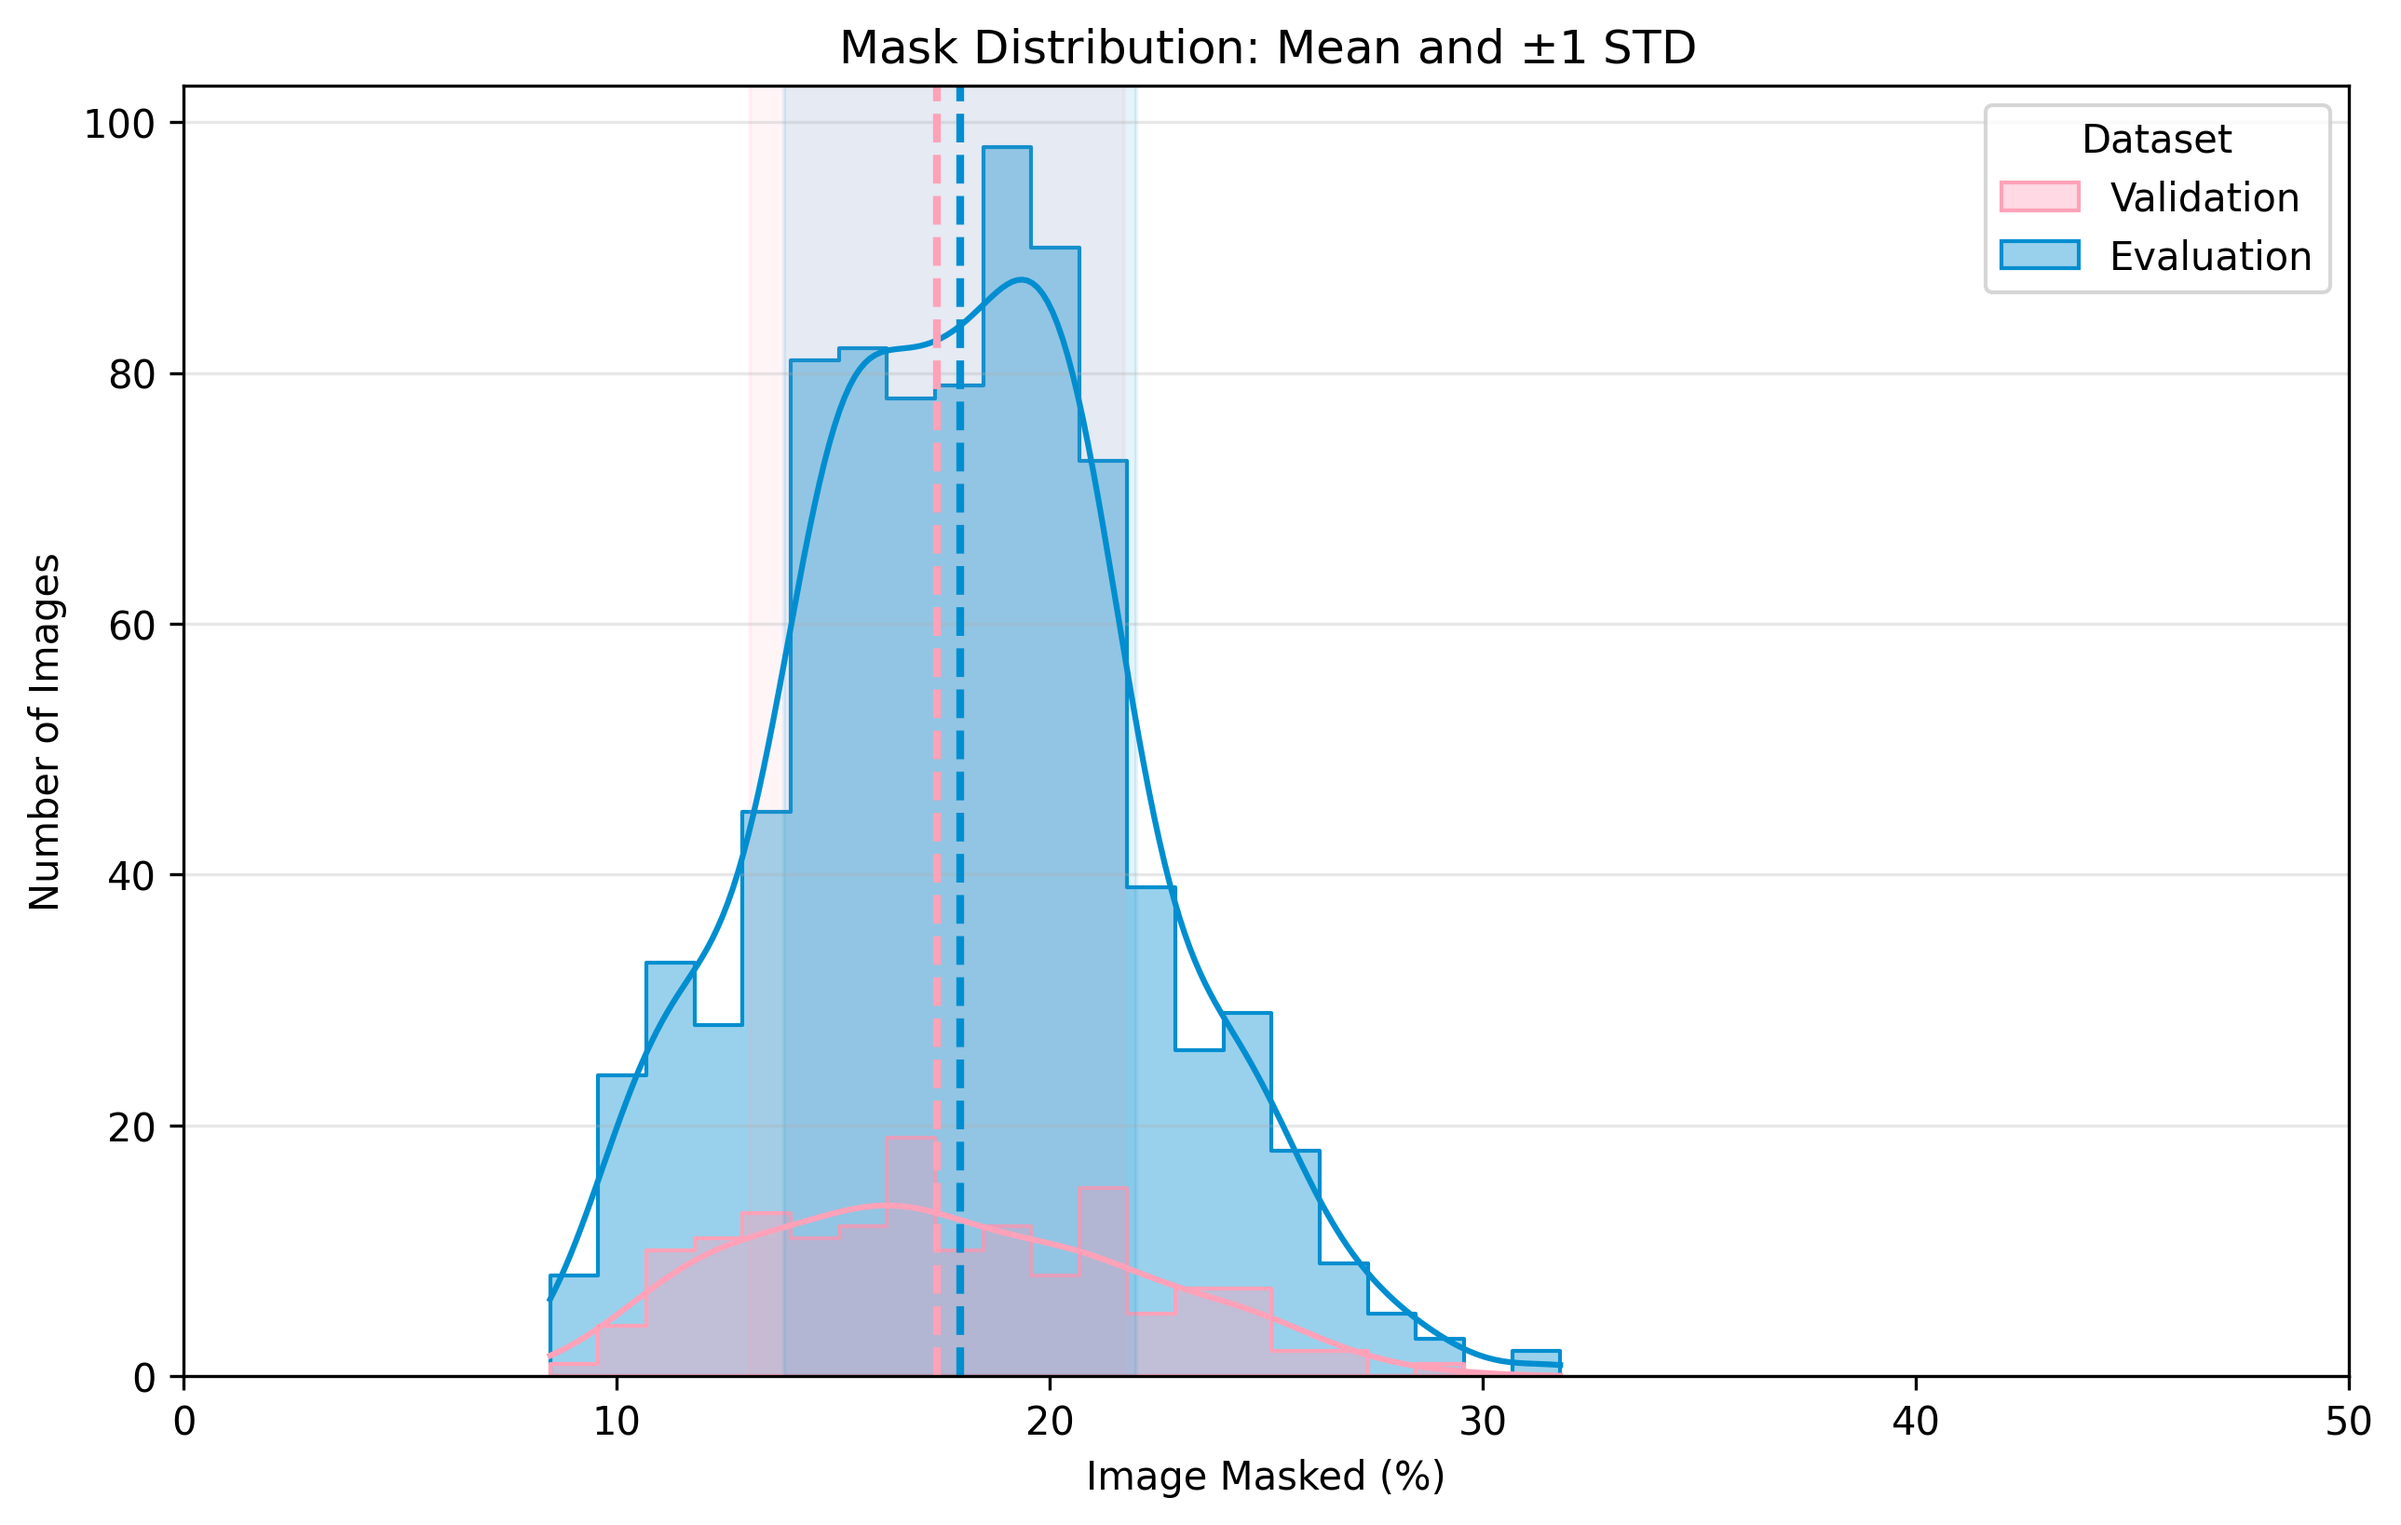
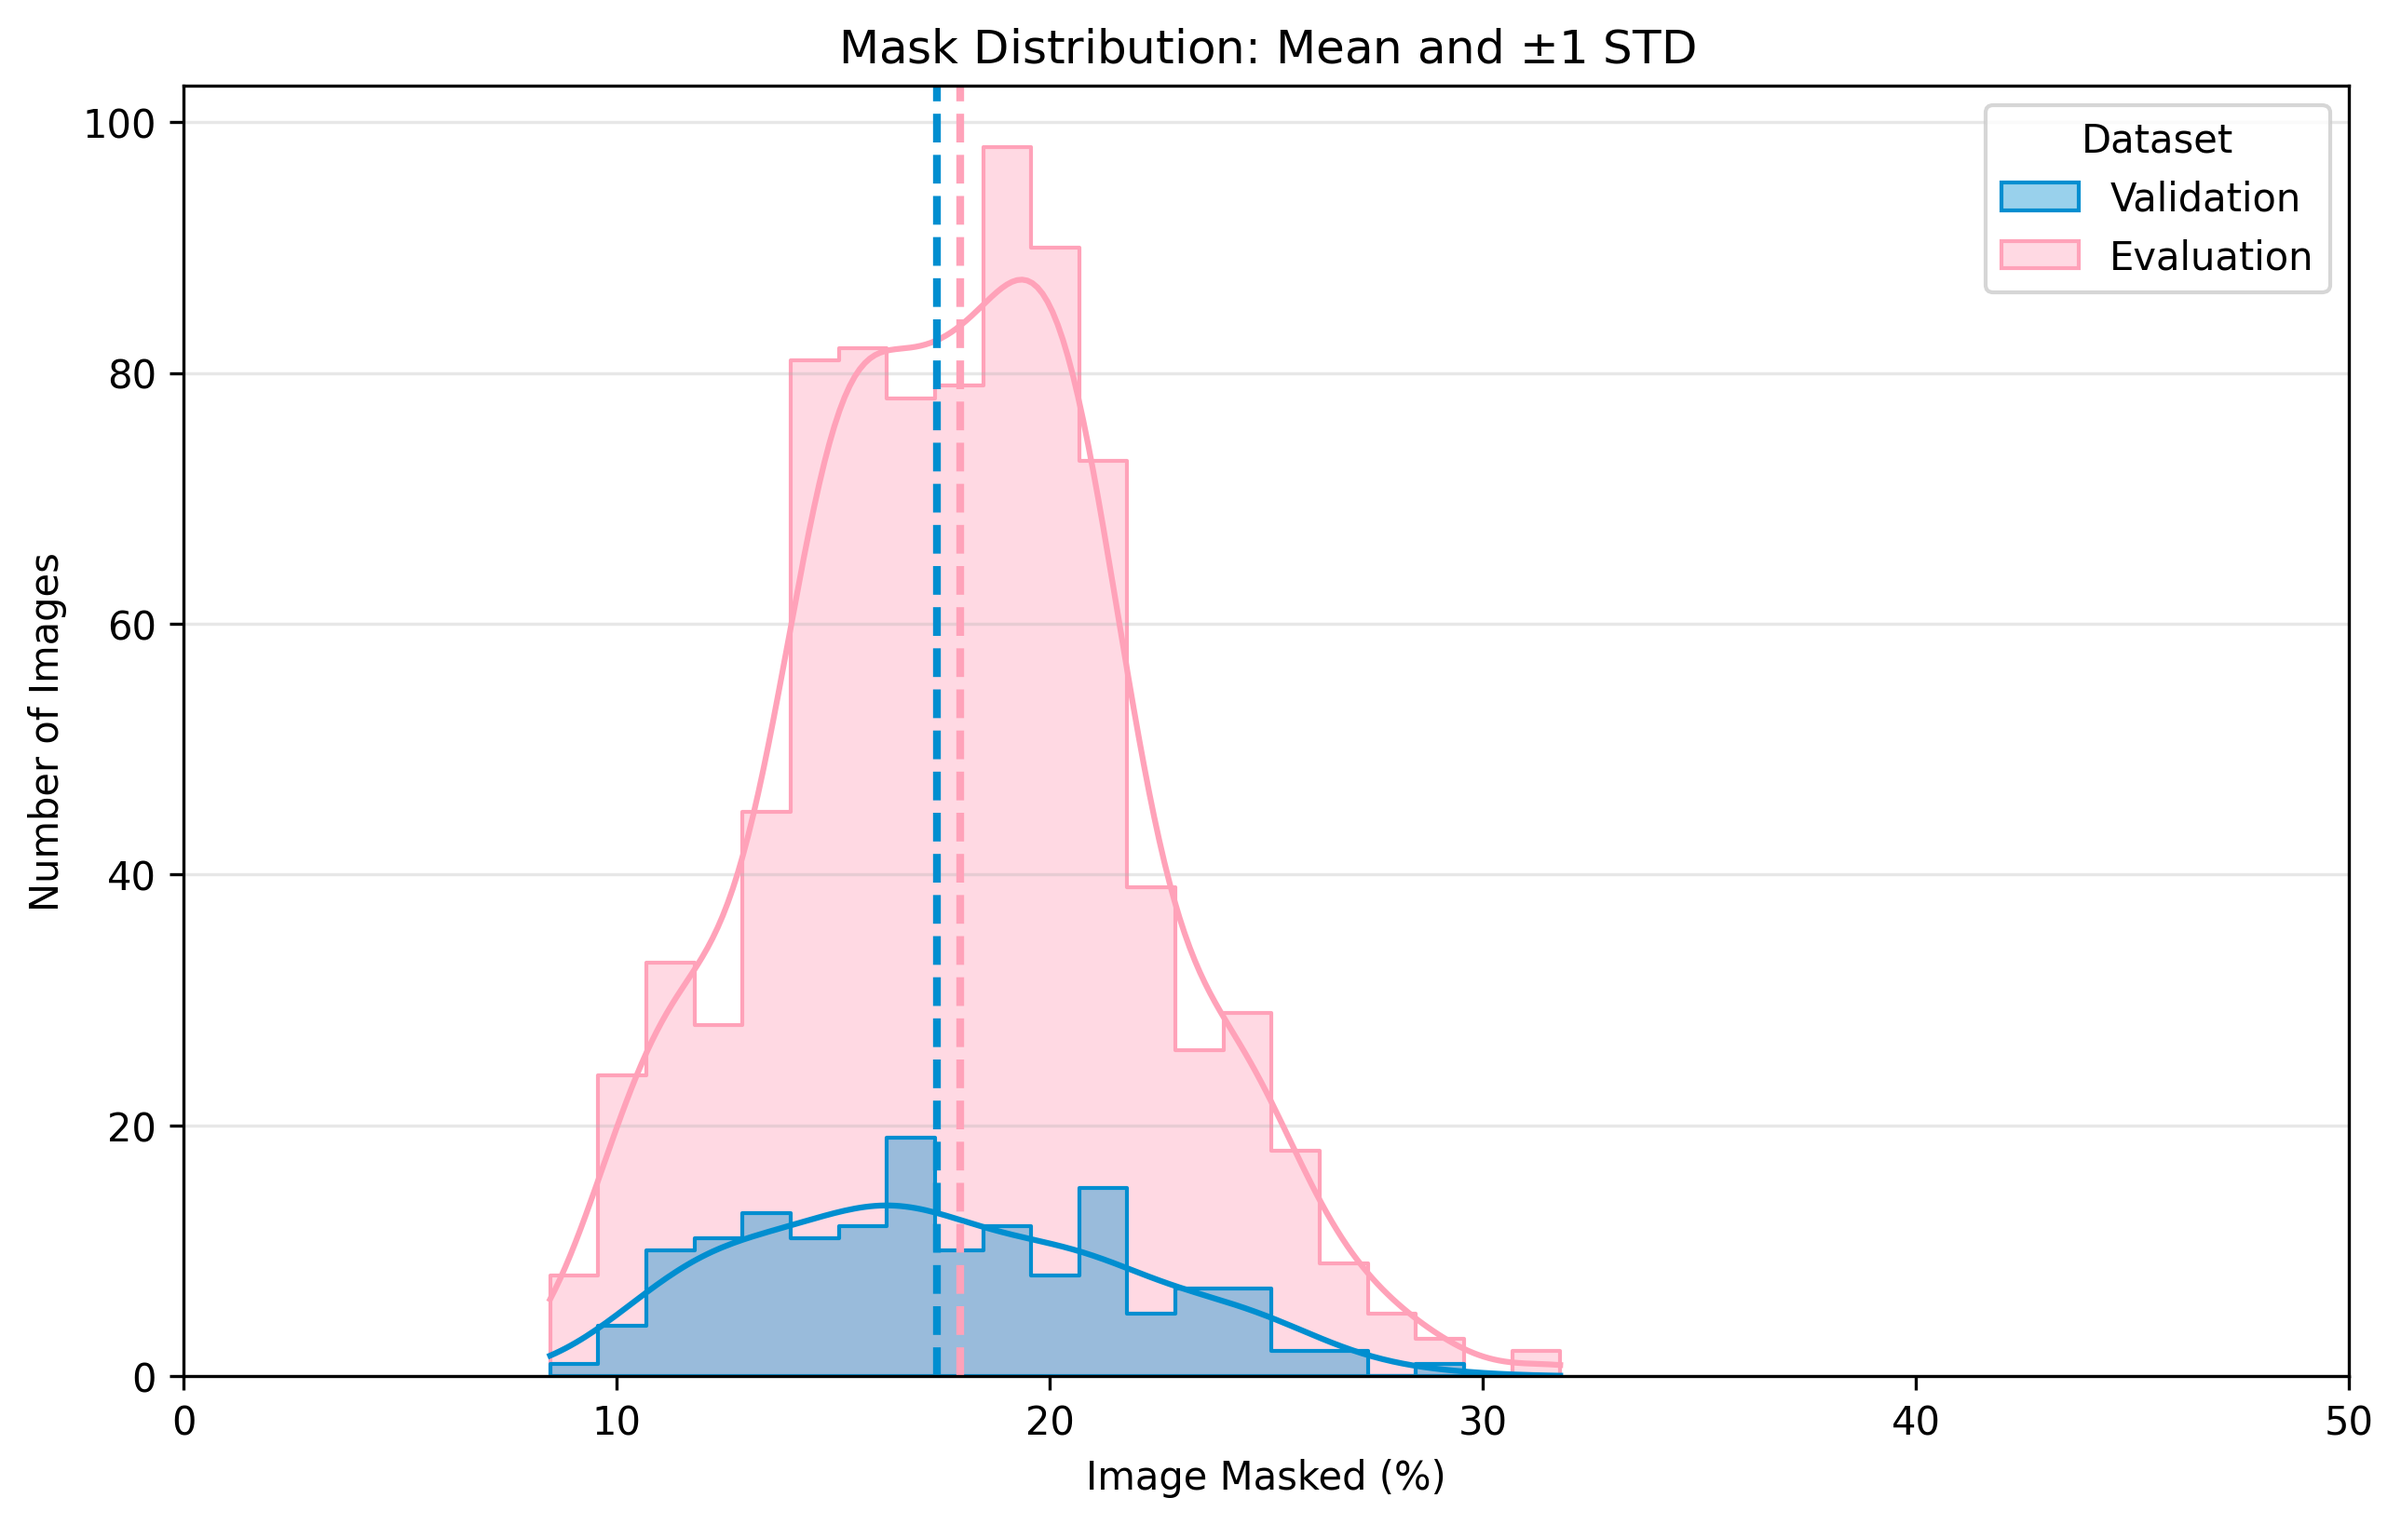
remove std

Changed region(s): [[0.2172, 0.0311, 0.6517, 0.9029], [0.8068, 0.0934, 0.8689, 0.1868]]

diff --git a/graphs/coverage_hist.py b/graphs/coverage_hist.py
@@ -52,7 +52,7 @@ def draw_hist(df):
 
     plt.figure(figsize=(10, 6))
     
-    colors = {'Validation': '#FFA2B9', 'Evaluation': '#008ED0'}
+    colors = {'Evaluation': '#FFA2B9', 'Validation': '#008ED0'}
 
     sns.histplot(
         data=df, x='Mask Percentage', hue='Dataset',
@@ -65,7 +65,7 @@ def draw_hist(df):
         s = stats[model]['std']
 
         plt.axvline(m, color=color, linestyle='--', linewidth=2, label=f'{model} Mean: {m:.1f}%')
-        plt.axvspan(m - s, m + s, color=color, alpha=0.1)
+        #plt.axvspan(m - s, m + s, color=color, alpha=0.1)
 
     plt.xlim(0, 50)
 
